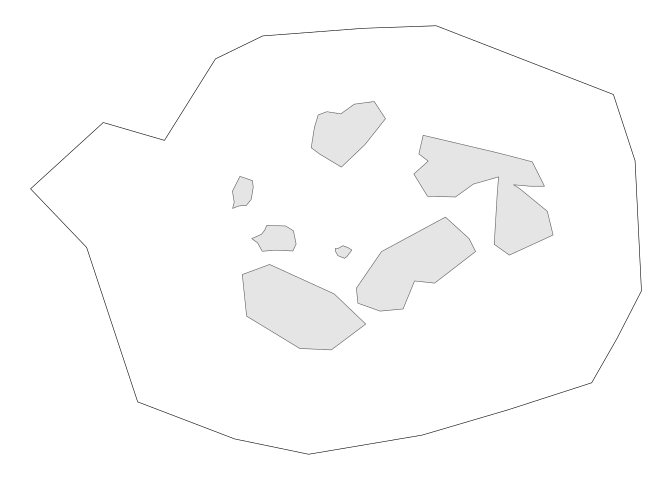
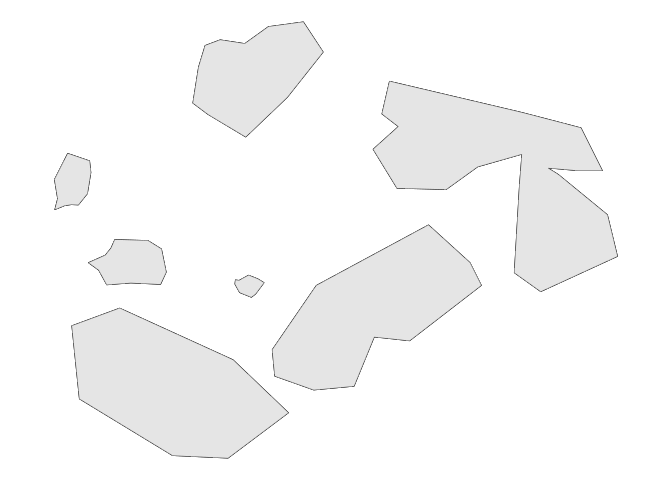
4th upload

diff --git a/README.md b/README.md
@@ -20,12 +20,12 @@ El conjunto de polígonos con el que ejemplificaré se muestra en la
 library(tidyverse)
 library(sf)
 
-poligono_ejemplo <- st_read("data/poligonos_Distancias.shp") 
+poligono_ejemplo <- st_read("https://github.com/Rodpach/distanciasMinimas/raw/refs/heads/master/data/poligonos_Distancias.gpkg") |> st_set_geometry("geometry")
 ```
 
     Reading layer `poligonos_Distancias' from data source 
-      `/home/pacheco/Documents/R/distanciasMinimas/data/poligonos_Distancias.shp' 
-      using driver `ESRI Shapefile'
+      `https://github.com/Rodpach/distanciasMinimas/raw/refs/heads/master/data/poligonos_Distancias.gpkg' 
+      using driver `GPKG'
     Simple feature collection with 7 features and 1 field
     Geometry type: POLYGON
     Dimension:     XY
@@ -154,16 +154,16 @@ nuestros polígonos a un perímetro, representado por
 <a href="#fig-5" class="quarto-xref">Figure 5</a>.
 
 ``` r
-perimetro <- st_read("data/poligonos_Perimetro.shp")
+perimetro <- st_read("https://github.com/Rodpach/distanciasMinimas/raw/refs/heads/master/data/poligonos_Perimetro.gpkg") |> st_set_geometry("geometry")
 ```
 
     Reading layer `poligonos_Perimetro' from data source 
-      `/home/pacheco/Documents/R/distanciasMinimas/data/poligonos_Perimetro.shp' 
-      using driver `ESRI Shapefile'
-    Simple feature collection with 1 feature and 1 field
+      `https://github.com/Rodpach/distanciasMinimas/raw/refs/heads/master/data/poligonos_Perimetro.gpkg' 
+      using driver `GPKG'
+    Simple feature collection with 7 features and 1 field
     Geometry type: POLYGON
     Dimension:     XY
-    Bounding box:  xmin: -102.4985 ymin: 19.38849 xmax: -101.7193 ymax: 19.90325
+    Bounding box:  xmin: -102.241 ymin: 19.51385 xmax: -101.832 ymax: 19.81226
     Geodetic CRS:  WGS 84
 
 ``` r
